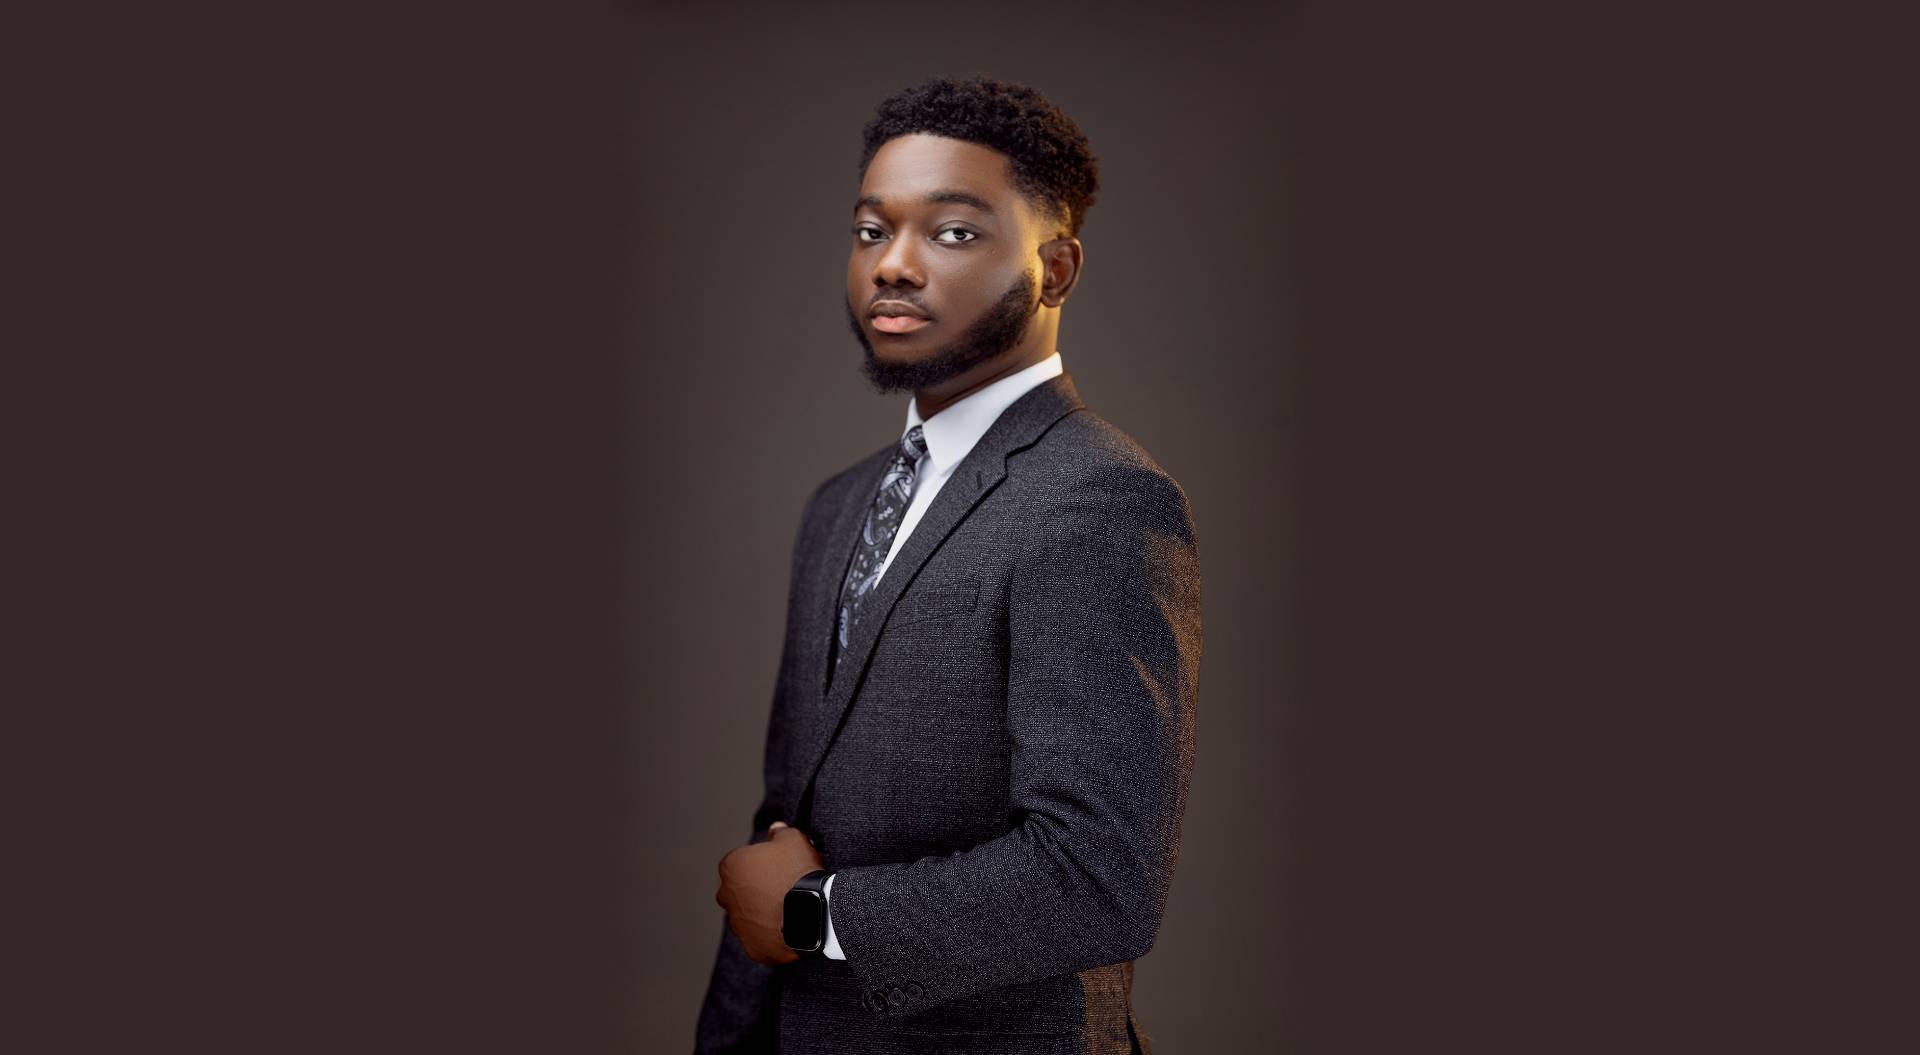
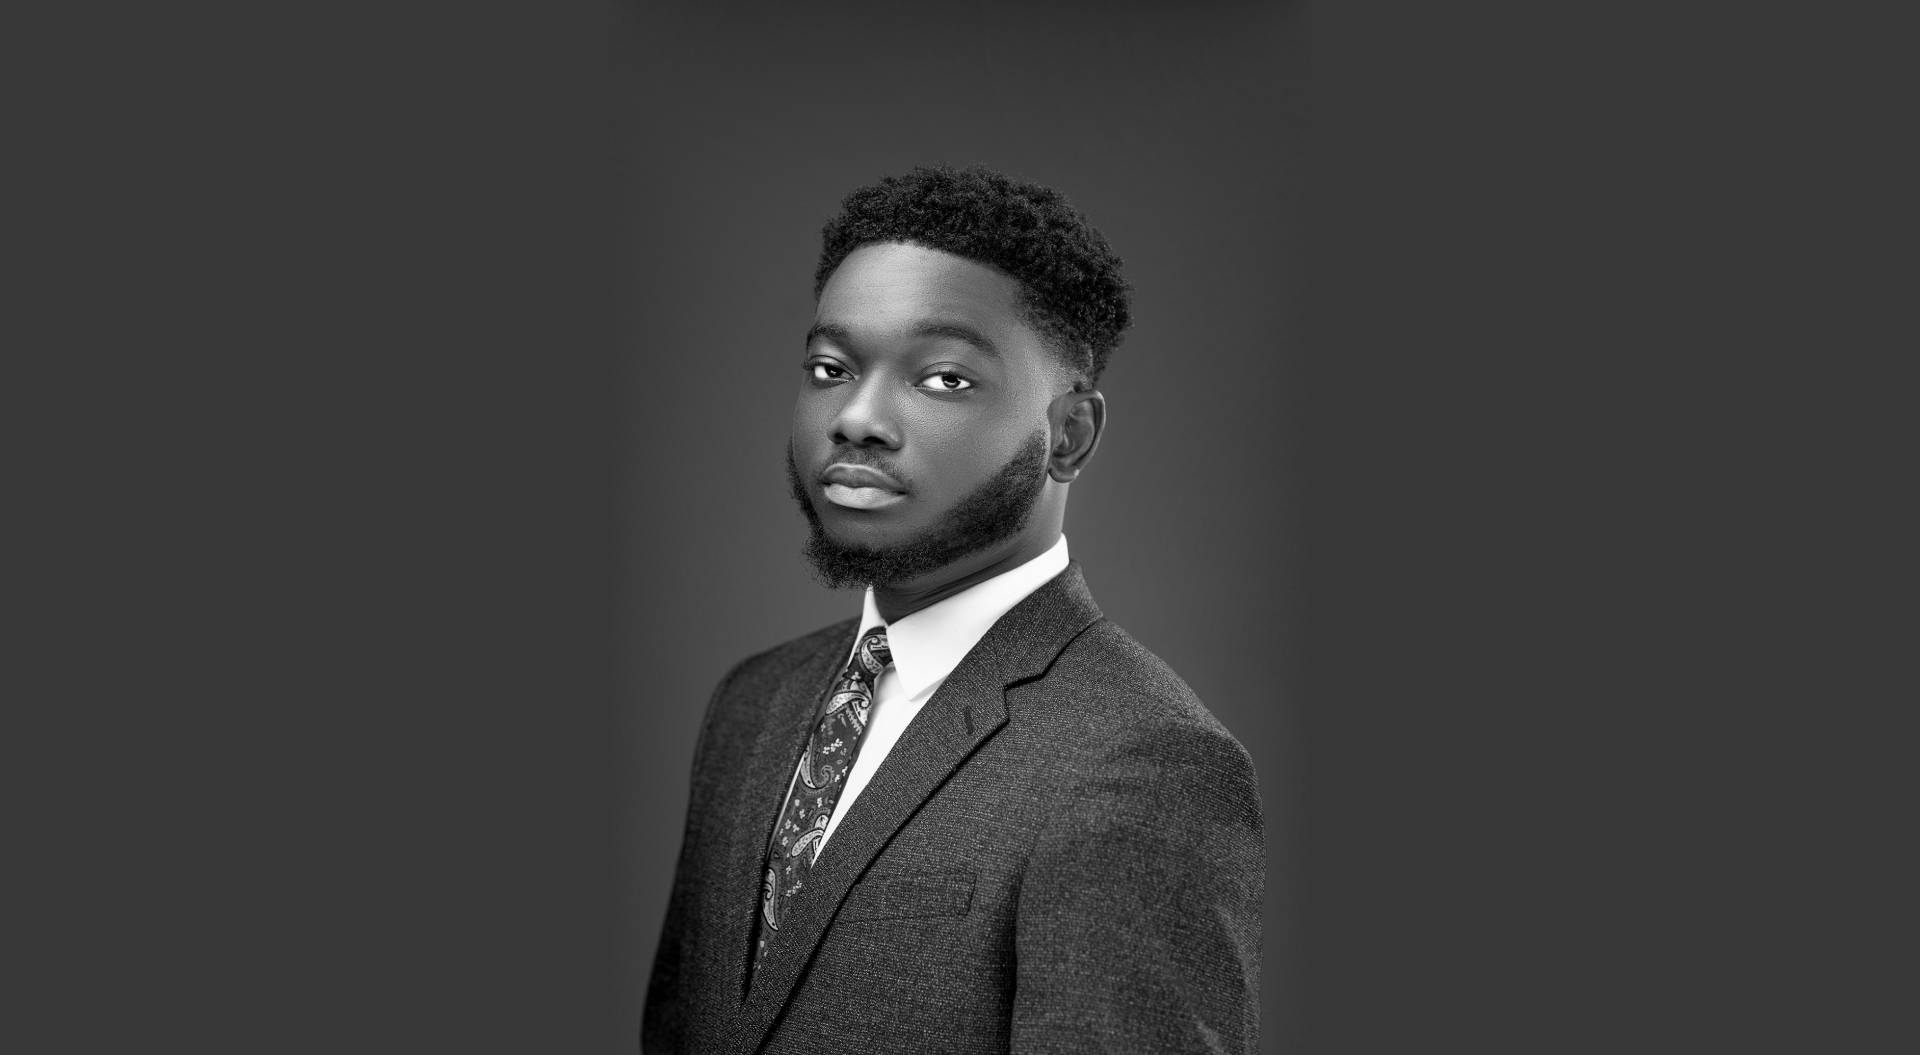
change landing img and add dark theme

Changed region(s): [[0.3125, 0.0607, 0.6562, 1.0]]

diff --git a/assets/css/main.css b/assets/css/main.css
@@ -19,11 +19,11 @@
 
 /* Global Colors - The following color variables are used throughout the website. Updating them here will change the color scheme of the entire website */
 :root { 
-  --background-color: #ffffff; /* Background color for the entire website, including individual sections */
-  --default-color: #4e4e4e; /* Default color used for the majority of the text content across the entire website */
-  --heading-color: #0a090f; /* Color for headings, subheadings and title throughout the website */
-  --accent-color: #8d5524; /* Accent color that represents your brand on the website. It's used for buttons, links, and other elements that need to stand out */
-  --surface-color: #ffffff; /* The surface color is used as a background of boxed elements within sections, such as cards, icon boxes, or other elements that require a visual separation from the global background. */
+  --background-color: #060606; /* Background color for the entire website, including individual sections */
+  --default-color: #b3b1b1; /* Default color used for the majority of the text content across the entire website */
+  --heading-color: #d0bb8e; /* Color for headings, subheadings and title throughout the website */
+  --accent-color: #d0bb8e; /* Accent color that represents your brand on the website. It's used for buttons, links, and other elements that need to stand out */
+  --surface-color: #060606; /* The surface color is used as a background of boxed elements within sections, such as cards, icon boxes, or other elements that require a visual separation from the global background. */
   --contrast-color: #ffffff; /* Contrast color for text, ensuring readability against backgrounds of accent, heading, or default colors. */
 }
 
@@ -34,7 +34,7 @@
   --nav-mobile-background-color: #ffffff; /* Used as the background color for mobile navigation menu */
   --nav-dropdown-background-color: #ffffff; /* Used as the background color for dropdown items that appear when hovering over primary navigation items */
   --nav-dropdown-color: #212529; /* Used for navigation links of the dropdown items in the navigation menu. */
-  --nav-dropdown-hover-color: #8d5524; /* Similar to --nav-hover-color, this color is applied to dropdown navigation links when they are hovered over. */
+  --nav-dropdown-hover-color: #d0bb8e; /* Similar to --nav-hover-color, this color is applied to dropdown navigation links when they are hovered over. */
 }
 
 /* Color Presets - These classes override global colors when applied to any section or element, providing reuse of the sam color scheme. */
@@ -53,7 +53,7 @@
 }
 
 .accent-background {
-  --background-color: #8d5524;
+  --background-color: #d0bb8e;
   --default-color: #ffffff;
   --heading-color: #ffffff;
   --accent-color: #ffffff;
@@ -1386,7 +1386,7 @@ section,
 
 .mbaButton:hover {
   background: #dfd5c0;
-  border: 4px solid #daceb5;
+  border: 4px solid #d0bb8e;
   color: #000;
 }
 

diff --git a/index.html b/index.html
@@ -572,6 +572,10 @@
 
     </section><!-- /Testimonials Section -->
 
+    <div style="background-color: #d0bb8e; width: 100%; display: flex; justify-content: center; align-items: center; padding: 10px 0; border-top: 10px solid rgb(221, 220, 220);">
+      <img src="assets/img/rawSignBlack.png" alt="Raw Sign" style="max-width: 300px; width: 100%; height: auto;">
+    </div>
+
     <!-- Contact Section -->
     <section id="contact" class="contact section">
 
